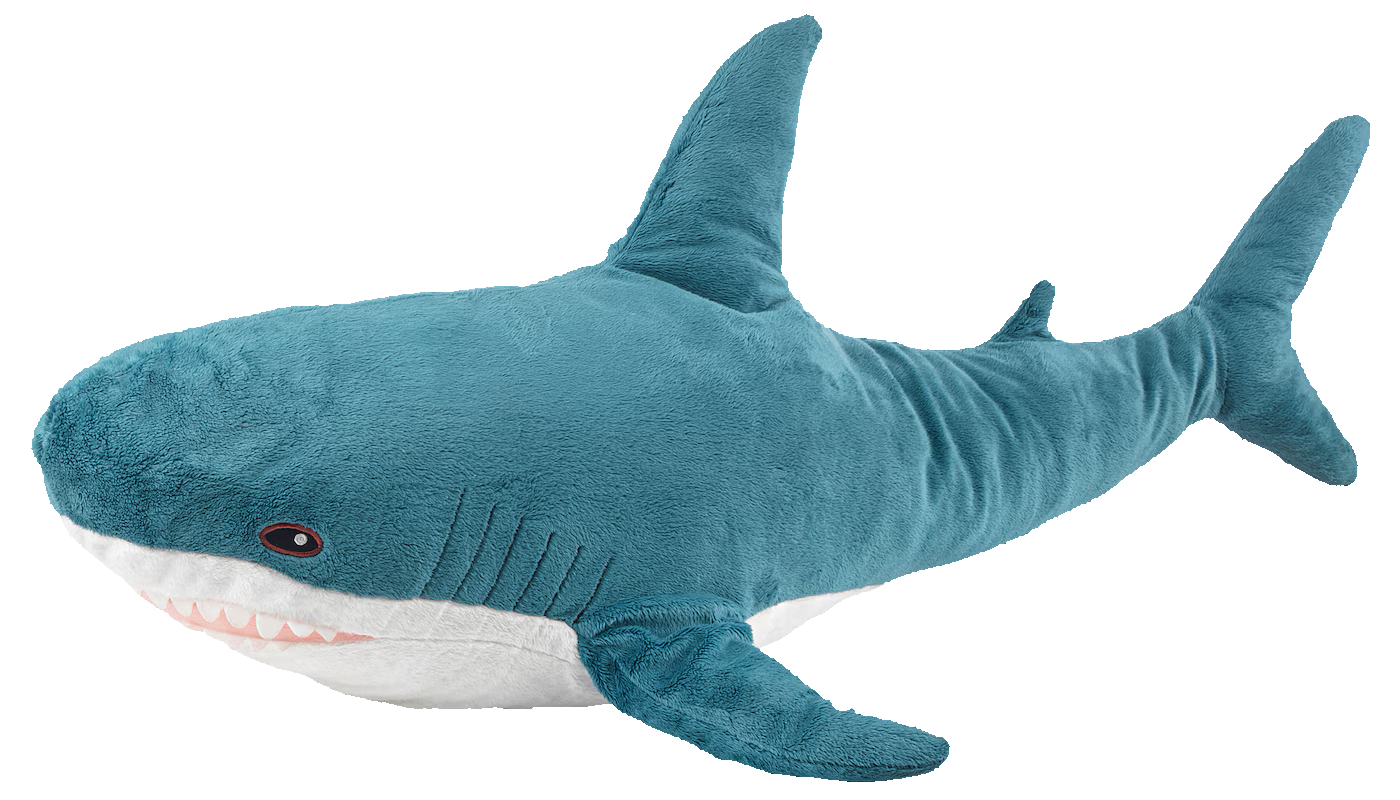
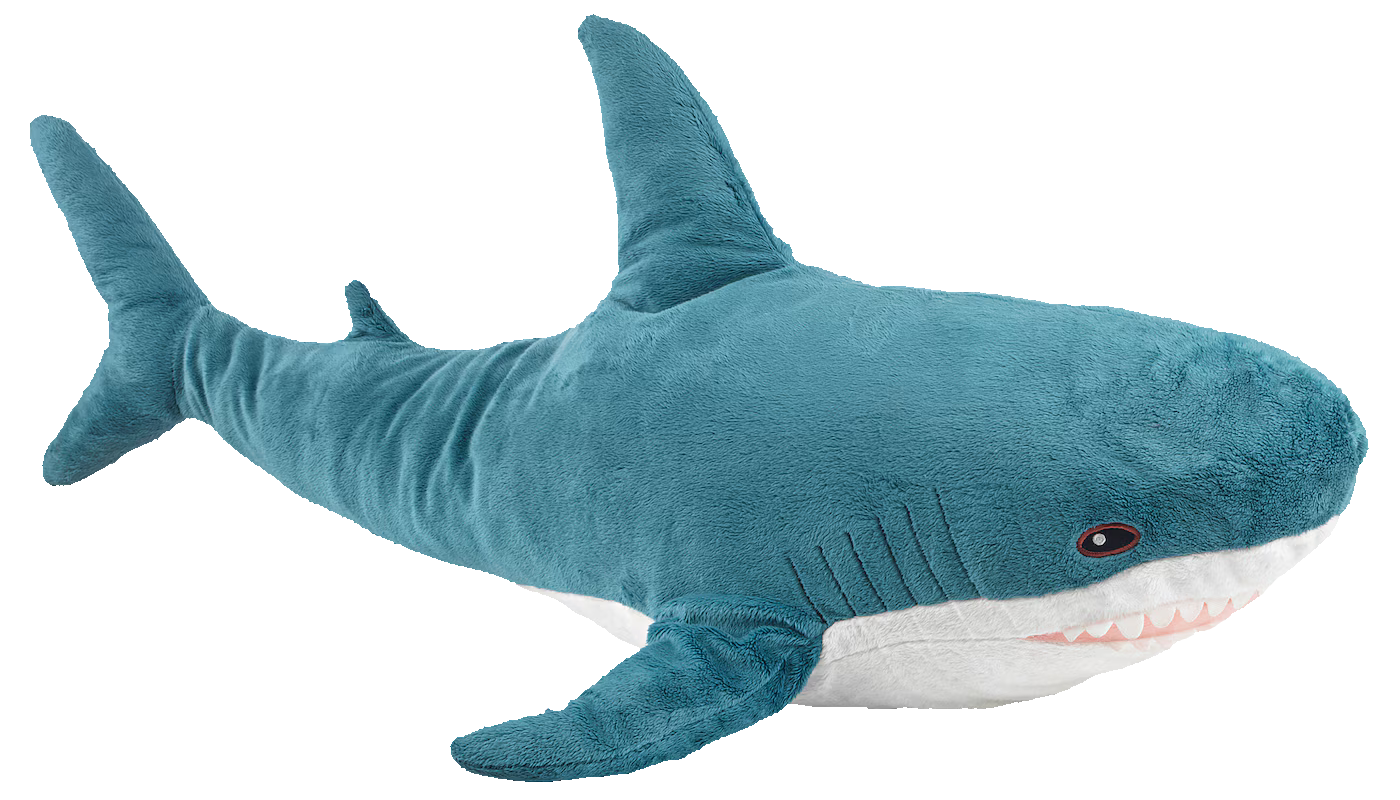
ikea shark go vroom

diff --git a/templates/index.html b/templates/index.html
@@ -25,11 +25,37 @@
             font-size: 1.5em;
             margin-bottom: 20px;
         }
+        #blahaj {
+            position: fixed;
+            top: 50%;
+            left: -150px;
+            width: 100px;
+            transform: translateY(-50%);
+            animation: swim 10s linear infinite;
+        }
+        @keyframes swim {
+            0% {
+                left: -150px;
+                transform: translateY(-50%) scaleX(1);
+            }
+            50% {
+                left: calc(100% + 150px);
+                transform: translateY(-50%) scaleX(1);
+            }
+            50.01% {
+                transform: translateY(-50%) scaleX(-1);
+            }
+            100% {
+                left: -150px;
+                transform: translateY(-50%) scaleX(-1);
+            }
+        }
     </style>
 </head>
 <body>
     <div class="message">coming soon...</div>
     <div id="countdown" class="countdown"></div>
+    <img id="blahaj" src="static/blahaj.png" alt="Blahaj">
 
     <script>
         function countdownTimer(targetDate) {
@@ -58,6 +84,27 @@
 
         const targetDate = new Date('September 21, 2024 00:00:00').getTime();
         countdownTimer(targetDate);
+
+        counter = 0
+
+        function resetAnimation() {
+            const blahaj = document.getElementById('blahaj');
+    
+            if (counter == 1) {
+                blahaj.style.animation = 'none';
+                blahaj.style.animation = null; 
+                counter = 0
+            } else
+                counter = 1
+
+            function getRandomNumber(min = 10, max = 90) {
+                return Math.floor(Math.random() * (max - min + 1)) + min;
+            }
+            blahaj.style.top = getRandomNumber() + "%"
+            blahaj.offsetHeight; // trigger reflow
+        }
+
+        setInterval(resetAnimation, 5000);
     </script>
 </body>
 </html>

diff --git a/README.md b/README.md
@@ -11,5 +11,8 @@ Quit looking at the source, there are no secrets here ^-^
 - `venv/scripts/activate`
 - `pip install -r requirements.txt`
 
-- `flask run --debug`
-- use docker for prod
+in dev
+- `flask --app main.py --debug run`
+
+in prod:
+- `python main.py` (this uses waitress as a webserver)
